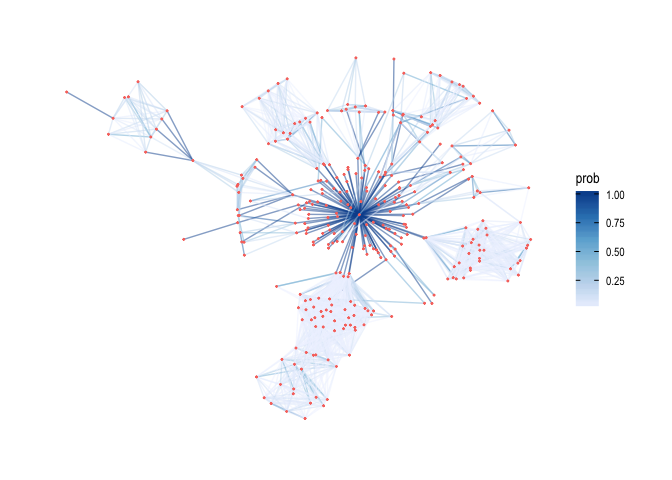
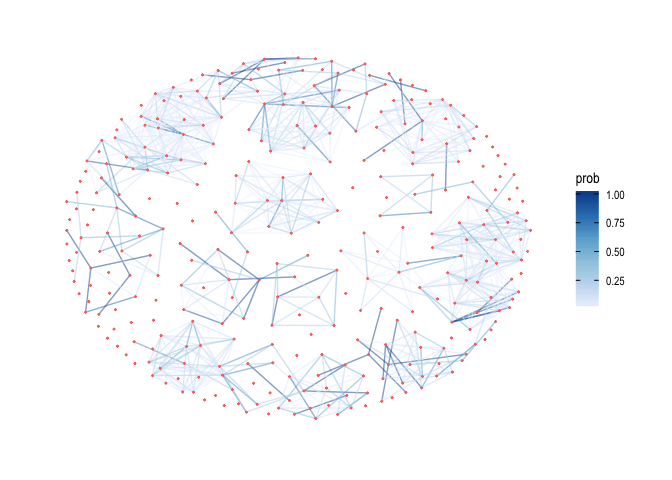
updating readme with NA fix for all links

Changed region(s): [[0.0938, 0.0938, 0.8125, 0.875], [0.0938, 0.1875, 0.125, 0.2188]]

diff --git a/README.md b/README.md
@@ -53,7 +53,8 @@ library(doParallel)
 
 # simrabid & treerabid
 library(simrabid) # devtools::install_github("mrajeev08/simrabid")
-library(treerabid)
+devtools::load_all()
+#> Error in get(genname, envir = envir) : object 'testthat_print' not found
 ```
 
 First simulate from rabies IBM using `simrabid`:
@@ -126,25 +127,25 @@ system.time({
 }
 )
 #>    user  system elapsed 
-#>   5.043   0.424   5.600
+#>   6.997   0.619   8.673
 
 # I_dt is the line list
 case_dt <- exe$I_dt
 head(case_dt)
 #>    id cell_id row_id progen_id path  x_coord y_coord invalid outbounds
-#> 1:  1    2490   1510        -1    0 676686.6 9802387   FALSE     FALSE
-#> 2:  2    2576   1591         2    0 692973.0 9801766   FALSE     FALSE
-#> 3:  3    2576   1591         2    0 692924.9 9801737   FALSE     FALSE
-#> 4:  4    2576   1591         3    0 692992.1 9801873   FALSE     FALSE
-#> 5:  5    4302   3109        -1    0 668686.6 9776387   FALSE     FALSE
-#> 6:  6    4100   2914        -1    0 676686.6 9779387   FALSE     FALSE
+#> 1:  1     384     74        -1    0 670686.6 9832387   FALSE     FALSE
+#> 2:  2     384     74         1    0 670895.0 9832629   FALSE     FALSE
+#> 3:  3     384     74         1    0 670685.4 9832392   FALSE     FALSE
+#> 4:  4    5291   3995         2    0 677648.3 9762503   FALSE     FALSE
+#> 5:  5     314     44         3    0 670437.9 9833351   FALSE     FALSE
+#> 6:  6    2687   1687         5    0 664043.7 9799651   FALSE     FALSE
 #>    t_infected contact infected t_infectious month detect_prob detected
-#> 1:   0.000000       N     TRUE      7.00000     1   0.9159249        1
-#> 2:   9.657419       S     TRUE     10.00000     2   0.9377713        1
-#> 3:  10.000000       S     TRUE     11.73716     2   0.9377713        1
-#> 4:  11.737164       S     TRUE     18.90483     4   0.8987660        1
-#> 5:   0.000000       N     TRUE     12.14286     3   0.9223063        1
-#> 6:   0.000000       N     TRUE     18.71429     4   0.8987660        0
+#> 1:   0.000000       N     TRUE     3.857143     0   0.9194758        1
+#> 2:   3.857143       S     TRUE     5.254459     1   0.8939988        1
+#> 3:   3.857143       S     TRUE     4.777159     1   0.8939988        1
+#> 4:   3.857143       S     TRUE     4.389586     1   0.8939988        1
+#> 5:   4.777159       S     TRUE     6.637168     1   0.8939988        1
+#> 6:   4.428571       S     TRUE     5.654184     1   0.8939988        1
 ```
 
 Reconstruct bootstrapped trees (per Hampson et al. 2009) & prune any
@@ -172,6 +173,7 @@ ttrees <-
              N = 1, 
              seed = 105)
 #> Warning: executing %dopar% sequentially: no parallel backend registered
+#> Warning in any(uncertainty): coercing argument of type 'double' to logical
 ttrees2 <- 
   boot_trees(id_case = case_dt$id,
              id_biter = 0, # we don't know the progenitors 
@@ -188,6 +190,7 @@ ttrees2 <-
              cutoff = 0.95,
              N = 1, 
              seed = 105)
+#> Warning in any(uncertainty): coercing argument of type 'double' to logical
 
 # Are these reproducible?
 identical(ttrees, ttrees2)
@@ -213,8 +216,207 @@ system.time({
                    N = 100, 
                    seed = 105)
 })
+#> Warning in any(uncertainty): coercing argument of type 'double' to logical
+
+#> Warning in any(uncertainty): coercing argument of type 'double' to logical
+
+#> Warning in any(uncertainty): coercing argument of type 'double' to logical
+
+#> Warning in any(uncertainty): coercing argument of type 'double' to logical
+
+#> Warning in any(uncertainty): coercing argument of type 'double' to logical
+
+#> Warning in any(uncertainty): coercing argument of type 'double' to logical
+
+#> Warning in any(uncertainty): coercing argument of type 'double' to logical
+
+#> Warning in any(uncertainty): coercing argument of type 'double' to logical
+
+#> Warning in any(uncertainty): coercing argument of type 'double' to logical
+
+#> Warning in any(uncertainty): coercing argument of type 'double' to logical
+
+#> Warning in any(uncertainty): coercing argument of type 'double' to logical
+
+#> Warning in any(uncertainty): coercing argument of type 'double' to logical
+
+#> Warning in any(uncertainty): coercing argument of type 'double' to logical
+
+#> Warning in any(uncertainty): coercing argument of type 'double' to logical
+
+#> Warning in any(uncertainty): coercing argument of type 'double' to logical
+
+#> Warning in any(uncertainty): coercing argument of type 'double' to logical
+
+#> Warning in any(uncertainty): coercing argument of type 'double' to logical
+
+#> Warning in any(uncertainty): coercing argument of type 'double' to logical
+
+#> Warning in any(uncertainty): coercing argument of type 'double' to logical
+
+#> Warning in any(uncertainty): coercing argument of type 'double' to logical
+
+#> Warning in any(uncertainty): coercing argument of type 'double' to logical
+
+#> Warning in any(uncertainty): coercing argument of type 'double' to logical
+
+#> Warning in any(uncertainty): coercing argument of type 'double' to logical
+
+#> Warning in any(uncertainty): coercing argument of type 'double' to logical
+
+#> Warning in any(uncertainty): coercing argument of type 'double' to logical
+
+#> Warning in any(uncertainty): coercing argument of type 'double' to logical
+
+#> Warning in any(uncertainty): coercing argument of type 'double' to logical
+
+#> Warning in any(uncertainty): coercing argument of type 'double' to logical
+
+#> Warning in any(uncertainty): coercing argument of type 'double' to logical
+
+#> Warning in any(uncertainty): coercing argument of type 'double' to logical
+
+#> Warning in any(uncertainty): coercing argument of type 'double' to logical
+
+#> Warning in any(uncertainty): coercing argument of type 'double' to logical
+
+#> Warning in any(uncertainty): coercing argument of type 'double' to logical
+
+#> Warning in any(uncertainty): coercing argument of type 'double' to logical
+
+#> Warning in any(uncertainty): coercing argument of type 'double' to logical
+
+#> Warning in any(uncertainty): coercing argument of type 'double' to logical
+
+#> Warning in any(uncertainty): coercing argument of type 'double' to logical
+
+#> Warning in any(uncertainty): coercing argument of type 'double' to logical
+
+#> Warning in any(uncertainty): coercing argument of type 'double' to logical
+
+#> Warning in any(uncertainty): coercing argument of type 'double' to logical
+
+#> Warning in any(uncertainty): coercing argument of type 'double' to logical
+
+#> Warning in any(uncertainty): coercing argument of type 'double' to logical
+
+#> Warning in any(uncertainty): coercing argument of type 'double' to logical
+
+#> Warning in any(uncertainty): coercing argument of type 'double' to logical
+
+#> Warning in any(uncertainty): coercing argument of type 'double' to logical
+
+#> Warning in any(uncertainty): coercing argument of type 'double' to logical
+
+#> Warning in any(uncertainty): coercing argument of type 'double' to logical
+
+#> Warning in any(uncertainty): coercing argument of type 'double' to logical
+
+#> Warning in any(uncertainty): coercing argument of type 'double' to logical
+
+#> Warning in any(uncertainty): coercing argument of type 'double' to logical
+
+#> Warning in any(uncertainty): coercing argument of type 'double' to logical
+
+#> Warning in any(uncertainty): coercing argument of type 'double' to logical
+
+#> Warning in any(uncertainty): coercing argument of type 'double' to logical
+
+#> Warning in any(uncertainty): coercing argument of type 'double' to logical
+
+#> Warning in any(uncertainty): coercing argument of type 'double' to logical
+
+#> Warning in any(uncertainty): coercing argument of type 'double' to logical
+
+#> Warning in any(uncertainty): coercing argument of type 'double' to logical
+
+#> Warning in any(uncertainty): coercing argument of type 'double' to logical
+
+#> Warning in any(uncertainty): coercing argument of type 'double' to logical
+
+#> Warning in any(uncertainty): coercing argument of type 'double' to logical
+
+#> Warning in any(uncertainty): coercing argument of type 'double' to logical
+
+#> Warning in any(uncertainty): coercing argument of type 'double' to logical
+
+#> Warning in any(uncertainty): coercing argument of type 'double' to logical
+
+#> Warning in any(uncertainty): coercing argument of type 'double' to logical
+
+#> Warning in any(uncertainty): coercing argument of type 'double' to logical
+
+#> Warning in any(uncertainty): coercing argument of type 'double' to logical
+
+#> Warning in any(uncertainty): coercing argument of type 'double' to logical
+
+#> Warning in any(uncertainty): coercing argument of type 'double' to logical
+
+#> Warning in any(uncertainty): coercing argument of type 'double' to logical
+
+#> Warning in any(uncertainty): coercing argument of type 'double' to logical
+
+#> Warning in any(uncertainty): coercing argument of type 'double' to logical
+
+#> Warning in any(uncertainty): coercing argument of type 'double' to logical
+
+#> Warning in any(uncertainty): coercing argument of type 'double' to logical
+
+#> Warning in any(uncertainty): coercing argument of type 'double' to logical
+
+#> Warning in any(uncertainty): coercing argument of type 'double' to logical
+
+#> Warning in any(uncertainty): coercing argument of type 'double' to logical
+
+#> Warning in any(uncertainty): coercing argument of type 'double' to logical
+
+#> Warning in any(uncertainty): coercing argument of type 'double' to logical
+
+#> Warning in any(uncertainty): coercing argument of type 'double' to logical
+
+#> Warning in any(uncertainty): coercing argument of type 'double' to logical
+
+#> Warning in any(uncertainty): coercing argument of type 'double' to logical
+
+#> Warning in any(uncertainty): coercing argument of type 'double' to logical
+
+#> Warning in any(uncertainty): coercing argument of type 'double' to logical
+
+#> Warning in any(uncertainty): coercing argument of type 'double' to logical
+
+#> Warning in any(uncertainty): coercing argument of type 'double' to logical
+
+#> Warning in any(uncertainty): coercing argument of type 'double' to logical
+
+#> Warning in any(uncertainty): coercing argument of type 'double' to logical
+
+#> Warning in any(uncertainty): coercing argument of type 'double' to logical
+
+#> Warning in any(uncertainty): coercing argument of type 'double' to logical
+
+#> Warning in any(uncertainty): coercing argument of type 'double' to logical
+
+#> Warning in any(uncertainty): coercing argument of type 'double' to logical
+
+#> Warning in any(uncertainty): coercing argument of type 'double' to logical
+
+#> Warning in any(uncertainty): coercing argument of type 'double' to logical
+
+#> Warning in any(uncertainty): coercing argument of type 'double' to logical
+
+#> Warning in any(uncertainty): coercing argument of type 'double' to logical
+
+#> Warning in any(uncertainty): coercing argument of type 'double' to logical
+
+#> Warning in any(uncertainty): coercing argument of type 'double' to logical
+
+#> Warning in any(uncertainty): coercing argument of type 'double' to logical
+
+#> Warning in any(uncertainty): coercing argument of type 'double' to logical
+
+#> Warning in any(uncertainty): coercing argument of type 'double' to logical
 #>    user  system elapsed 
-#>   1.979   0.063   2.108
+#>   2.196   0.065   2.752
 ```
 
 ## Visualizing trees
@@ -229,6 +431,9 @@ links_gr <- graph_from_data_frame(d = data.frame(from = links_all$id_progen,
 #> `d' `NA' elements were replaced with string "NA"
 E(links_gr)$prob <- links_all$prob
 V(links_gr)$membership <- components(links_gr)$membership
+
+# Get rid of the NA links (i.e. differentiating incursions)
+links_gr <- delete_vertices(links_gr, names(V(links_gr)) %in% "NA")
 
 set.seed(179)
 ggraph(links_gr, layout = "kk") + 
